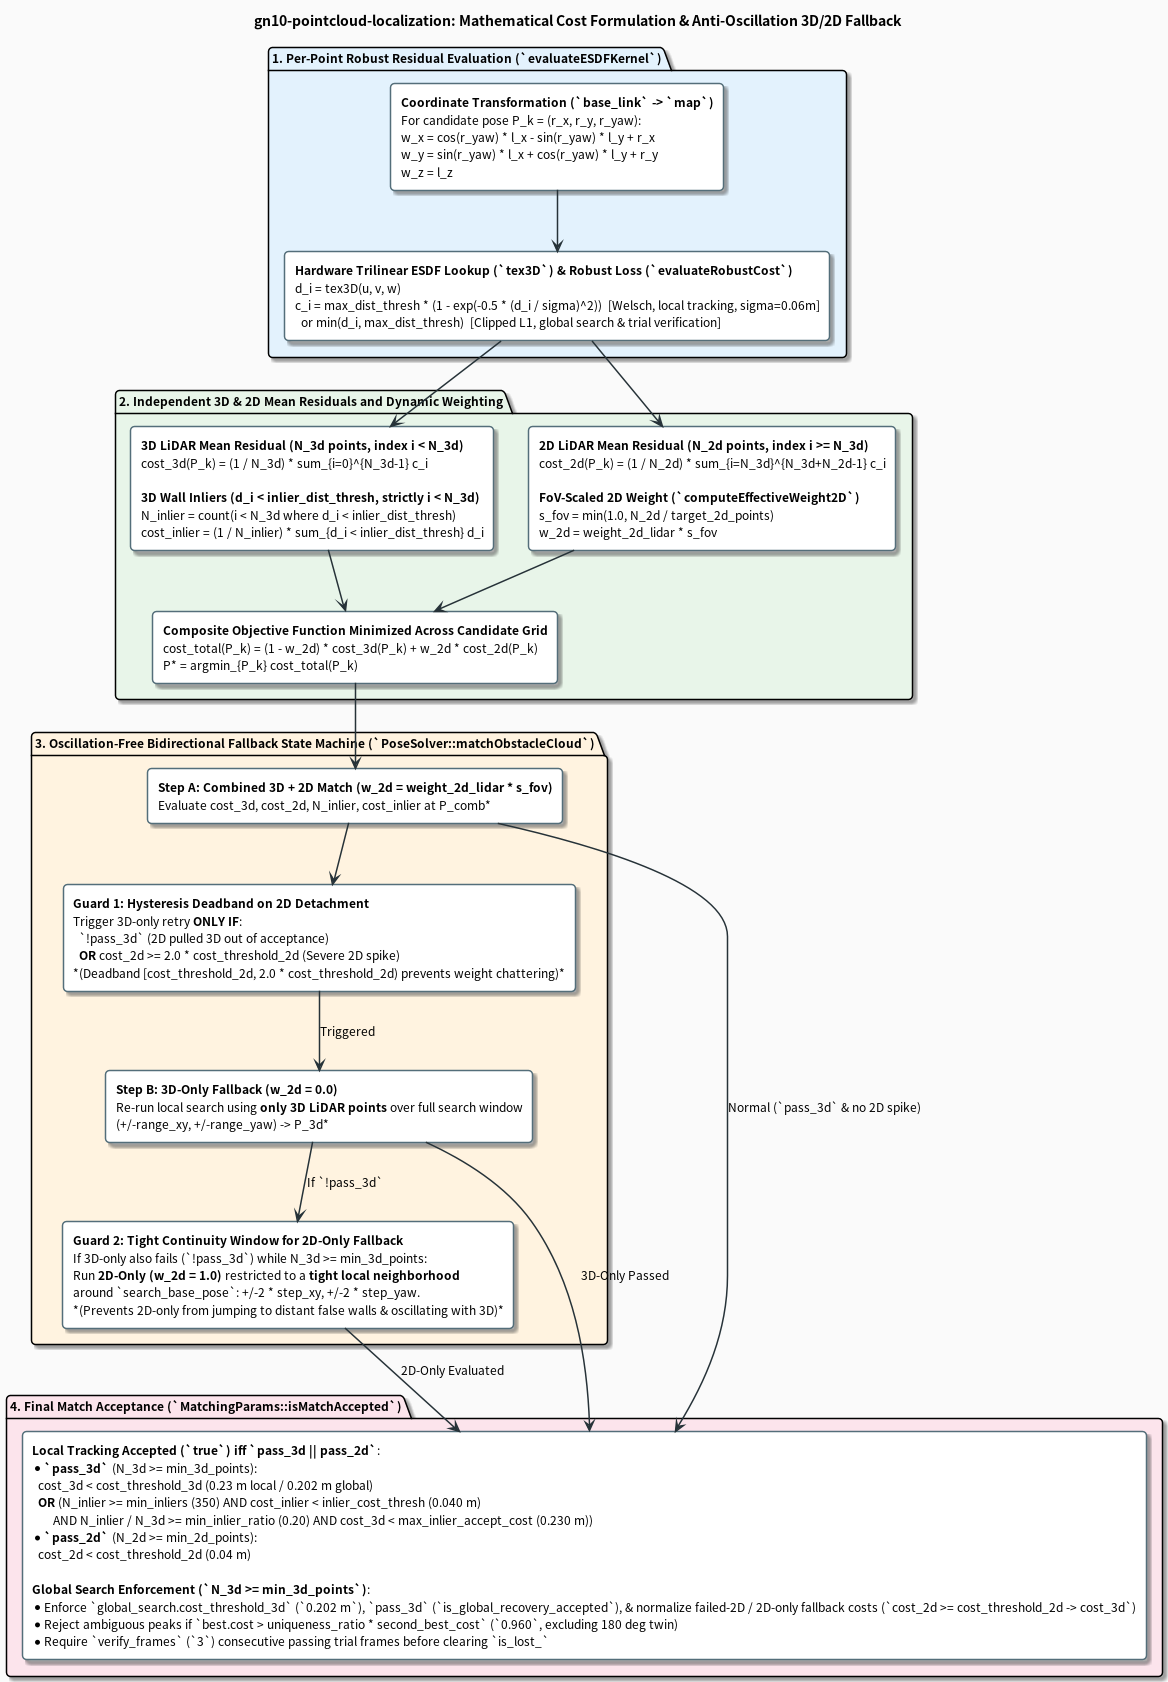
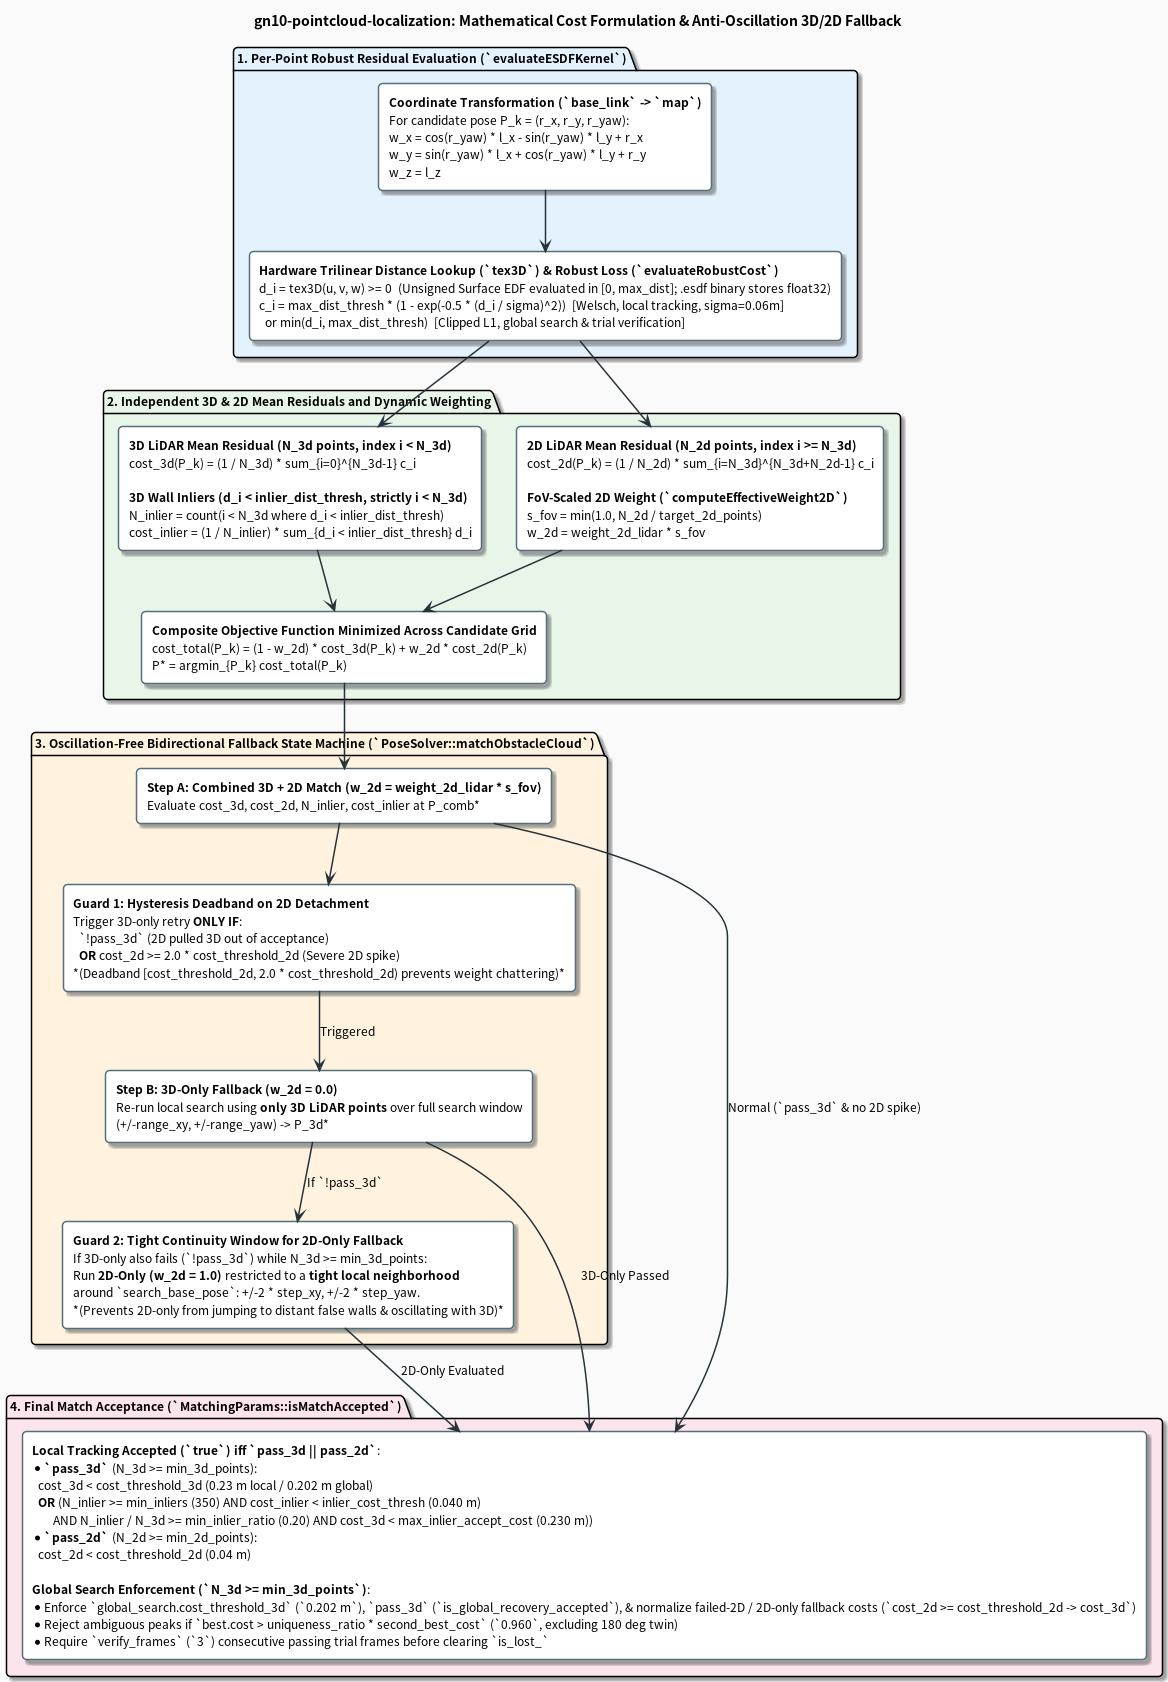
docs: clarify unsigned EDF evaluation vs float32 .esdf storage and bump version to 1.2.2

Changed region(s): [[0.0925, 0.0309, 0.8014, 0.5256]]

diff --git a/README.md b/README.md
@@ -11,9 +11,9 @@ Successfully deployed for autonomous navigation and positioning in NHK Robocon 2
 ## 1. Overview & Key Features
 
 - GPU-accelerated self-localization optimized for Jetson Orin Nano.
-- Matches point clouds against a continuous Euclidean Signed Distance Field (ESDF) rather than point-to-point, providing clean extensibility and low computational overhead.
+- Matches point clouds against a continuous 3D Truncated Unsigned Surface Euclidean Distance Field (EDF; referred to as `ESDF` in parameter and file names) rather than point-to-point, providing clean extensibility and low computational overhead.
 - Evaluates distance queries in $\mathcal{O}(1)$ time per point via GPU 3D Texture Memory and hardware trilinear interpolation.
-- Supports automatic ESDF map generation from `.pcd` point clouds and `.json` CAD geometric definitions via a dedicated binary format.
+- Supports automatic map generation from `.pcd` point clouds and `.json` CAD geometric definitions via a dedicated `.esdf` binary format (stores raw IEEE 754 `float32` voxels capable of signed storage, while map generation and scan-matching evaluation use non-negative surface distances $d \in [0, d_{\max}]$ so solid obstacles do not pull points inward and thin walls `< resolution` or raw `.pcd` maps avoid sign-aliasing).
 - Built for ROS 2 Humble for straightforward integration across robotic projects.
 - Features real-time dynamic obstacle filtering that separates non-map objects and publishes them to `/dynamic_cloud`.
 - Instead of relying on odometry, the system performs high-speed matching against a static map; this minimizes systematic error bias and enables real-time position estimation within that static map.
@@ -23,13 +23,13 @@ https://github.com/user-attachments/assets/c095bf62-cfac-403c-aa1b-679e0ed4c053
 ## 2. System Architecture & Localization Algorithm
 
 ```
-[3D LiDAR (Livox MID360)] ──> [ScanAccumulator (0.10s Deskew)] ──> [GroundFilter (CUDA)] ──> [3D Obstacle Cloud]
-                                                                                                     │
-[2D LiDAR (Lakibeam 1)]   ──> [LaserScanDeskew (Rot + Trans + Time Sync)] ─────────────────> [2D Obstacle Cloud]
-                                                                                                     │
-[IMU + EMA Velocity Extrapolation] ──────────────────────────────────────────────────────────>       ▼
-                                                                                    [ESDF Matcher (CUDA 3D Texture)]
-[3D ESDF Map (GPU Texture)] ─────────────────────────────────────────────────────────────────>       │
+[3D LiDAR (Livox MID360)] ──> [ScanAccumulator (0.10s Deskew)] ──> [GroundFilter + VoxelEqualization (CUDA)] ──> [3D Obstacle Cloud]
+                                                                                                                  │
+[2D LiDAR (Lakibeam 1)]   ──> [LaserScanDeskew (Rot + Trans + Time Sync)] ──────────────────────────────> [2D Obstacle Cloud]
+                                                                                                                  │
+[IMU + EMA Velocity Extrapolation] ─────────────────────────────────────────────────────────────────────>         ▼
+                                                                                     [EDF Matcher (CUDA 3D Texture + Welsch Loss)]
+[3D Distance Map (GPU Texture)] ────────────────────────────────────────────────────────────────────────>         │
       │                                                                                              ▼
       ▼ (Transient Local)                                                   [Anti-Oscillation 3D/2D Fallback & Gating]
 [ESDF Cloud (/esdf_map)]                                                                             │
